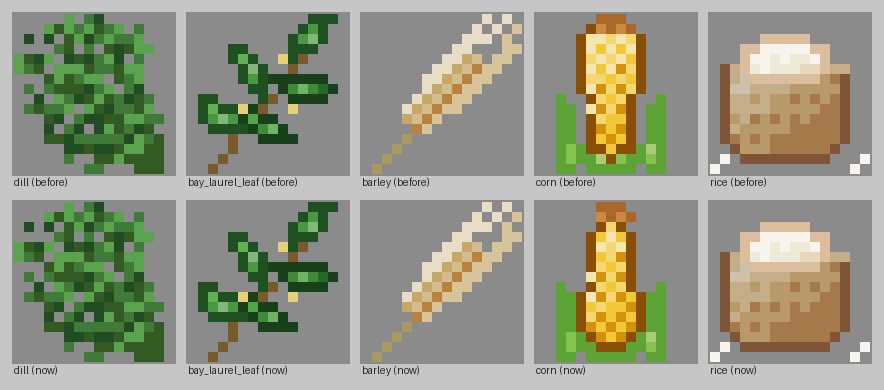
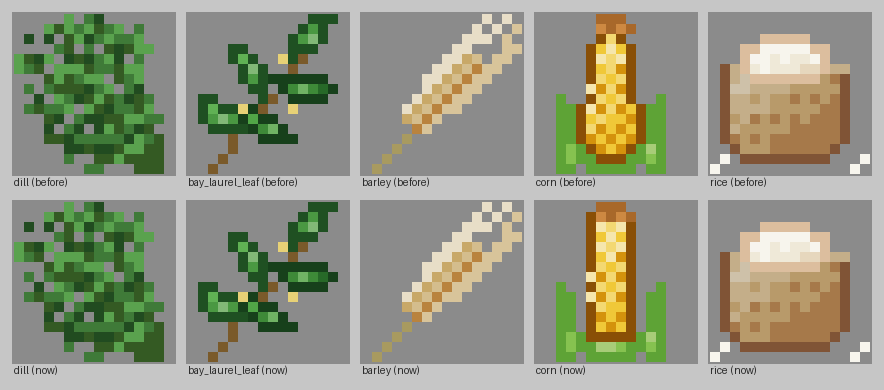
Keep the corn cob straight
Claude-Session: https://claude.ai/code/session_015LnbBras9DEmUQEKydUTyp

diff --git a/.workflow/art/item_sprites.py b/.workflow/art/item_sprites.py
@@ -1659,8 +1659,8 @@ def corn_hand():
     s.capsule(husk, [(3.4, 14.6), (2.6, 8.4)], (1.4, 0.6))
     s.capsule(husk, [(11.6, 14.6), (12.4, 8.4)], (1.4, 0.6))
     s.capsule(husk, [(7.5, 15.0), (7.5, 12.0)], (2.2, 1.6))
-    # The cob is broad at the base and narrows toward the tip.
-    s.capsule(kernel, [(7.5, 3.0), (7.5, 11.6)], (2.0, 3.4), texture=kernels)
+    # A straight cob, the same width from base to tip.
+    s.capsule(kernel, [(7.5, 3.2), (7.5, 11.6)], (2.9, 2.9), texture=kernels)
     s.pixels_at(kernel[HIGHLIGHT], [(6, 4), (5, 7), (5, 9)])
     # Silk at the top.
     silk = ramp("#a8682a")
